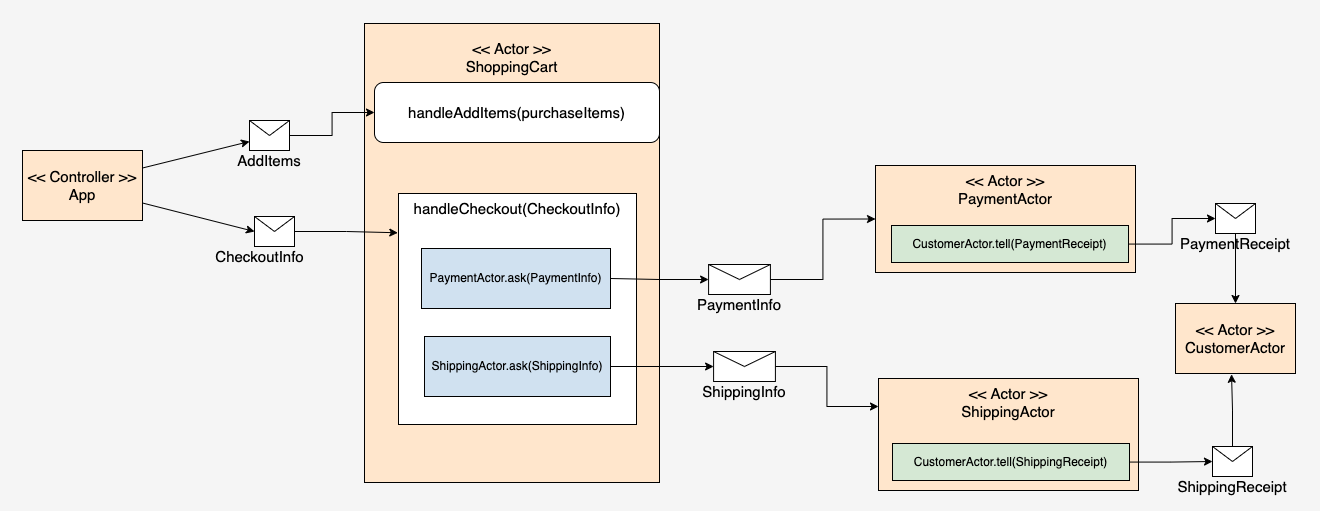
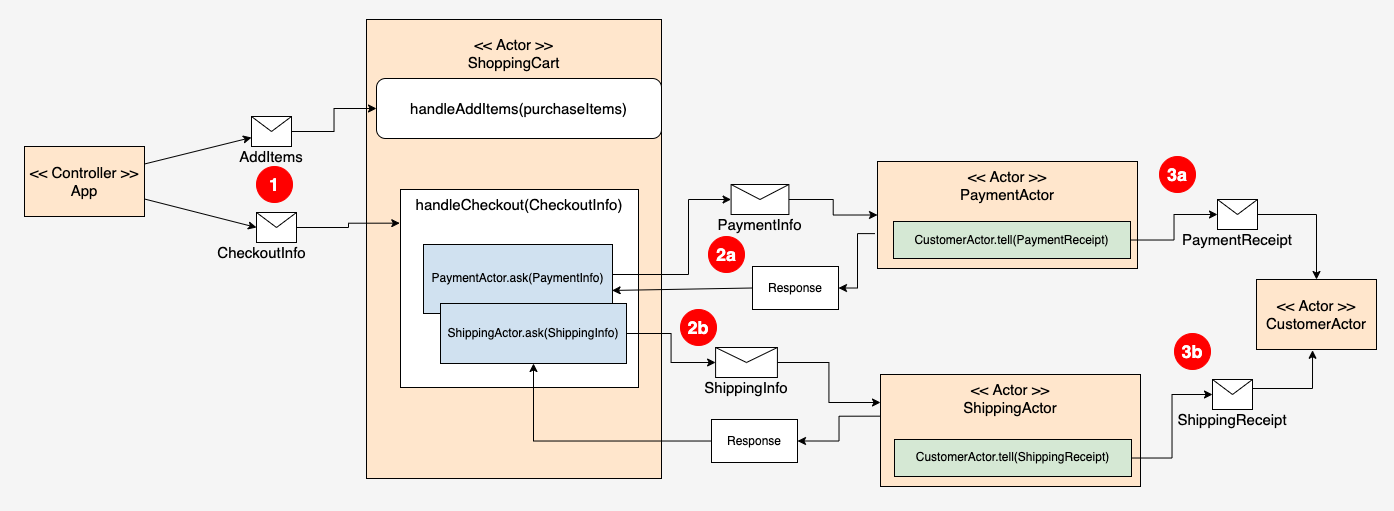
built out readme

Changed region(s): [[0.0, 0.0294, 0.9939, 0.9687]]

diff --git a/README.md b/README.md
@@ -1,11 +1,22 @@
 # Jill's Juice
 The project demonstrates the modes of message communication in the Actor model.
 
-
-![model](./images/jills-juice-model-01.png)
-
 # To run
 
 ```
 mvn compile exec:exec
 ```
+
+# Understanding the demonstration application
+
+Jill’s Juice is a fictitious e-commerce company that sells a variety of gourmet juices. This GitHub project shows how to implement the Actor Model as a simple shopping cart. The implementation uses the Akka framework under Java.
+
+![model](./images/jills-juice-model-01.png)
+
+The shopping cart is represented by an actor called the `ShoppingCartActor`. The client that sends messages into the `ShoppingCartActor` is a controller actor called `App`.
+
+The App actor sends a fire-and-forget `AddItems` message that describes a set of items to add to the `ShoppingCartActor`. Another fire-and-forget message named `CheckoutInfo` describes the checkout information required to execute checkout behavior within the `ShoppingCartActor`. Sending a `CheckoutInfo` to the `ShoppingCartActor` instigates the checkout process. (See Figure 2, callout 1.)
+
+The checkout process within the `ShoppingCartActor` sends a response message to the `PaymentActor` which processes payment and returns a response. (See Figure 2, callout 2a.) After the `PaymentActor` processes payment it sends a fire-and-forget `PaymentReceipt` message to the `CustomerActor`. (See Figure 2, callout 3a.)
+
+After payment is made and acknowledged by a response from the `PaymentActor`, the `ShoppingCartActor` sends a `ShippingInfo` message to the `ShippingActor`. (See Figure 2, call out 2b.) The `ShippingActor` ships the items described in the ShippingInfo message. The `ShippingActor` responds to the `ShoppingCartActor` letting it know that shipment has executed. Also, the `ShippingActor` sends a fire-and-forget `ShippingReceipt` message to the `CustomerActor` to inform the customer that the items have shipped. (See Figure 2, callout 3b.)
